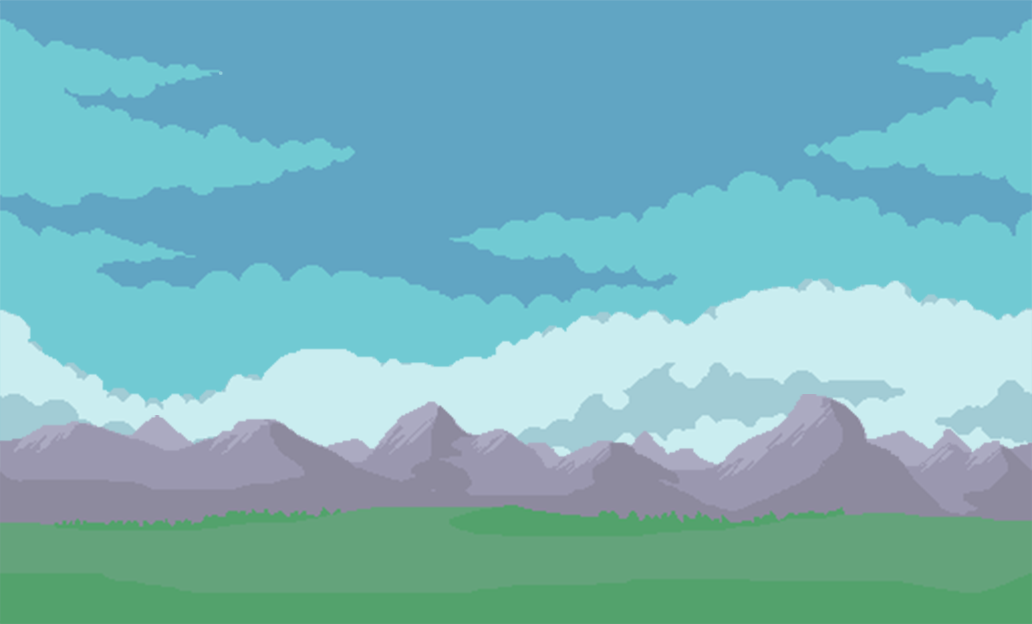
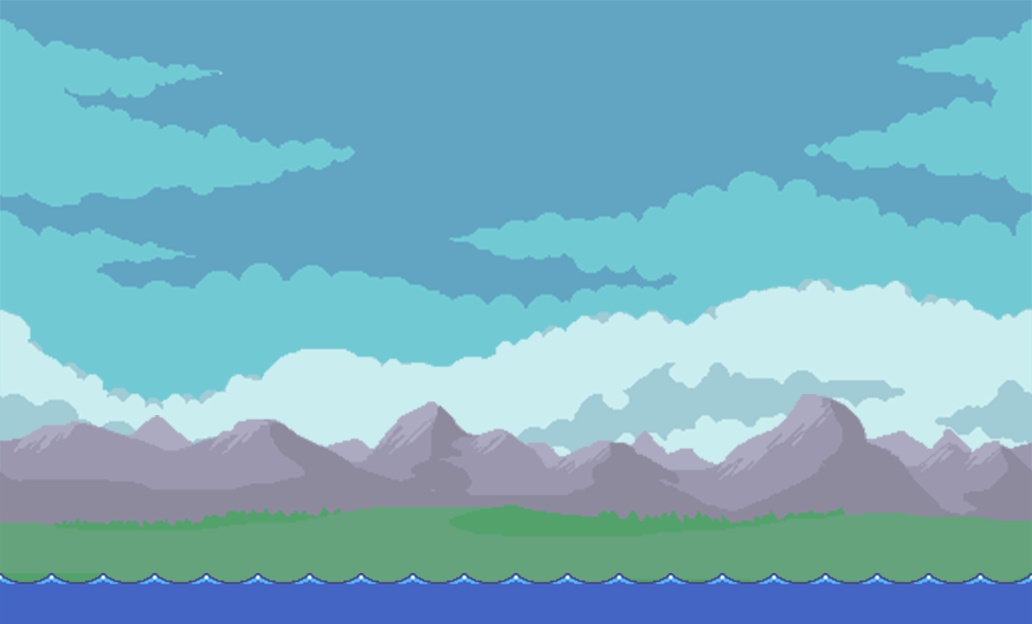
fixed water bug

Changed region(s): [[0.0, 0.9135, 1.0, 1.0]]

diff --git a/Level1.java b/Level1.java
@@ -57,17 +57,6 @@ public class Level1 extends World
         addObject(clouds2,474,185);
         Clouds clouds3 = new Clouds();
         addObject(clouds3,751,73);
-        Water water = new Water();
-        addObject(water,99,594);
-        Water water2 = new Water();
-        addObject(water2,493,602);
-        Water water3 = new Water();
-        addObject(water3,875,603);
-        water3.setLocation(875,596);
-        water.setLocation(99,600);
-        water2.setLocation(492,603);
-        water2.setLocation(487,597);
-        water3.setLocation(874,597);
         normalGrassBlock2.setLocation(179,410);
         NormalGrassBlock normalGrassBlock3 = new NormalGrassBlock();
         addObject(normalGrassBlock3,272,397);
@@ -78,18 +67,7 @@ public class Level1 extends World
         removeObject(clouds);
         removeObject(clouds2);
         removeObject(character);
-        removeObject(water);
-        removeObject(water2);
-        removeObject(water3);
         removeObject(clouds3);
-        Water water4 = new Water();
-        addObject(water4,62,599);
-        Water water5 = new Water();
-        addObject(water5,449,596);
-        Water water6 = new Water();
-        addObject(water6,831,588);
-        water6.setLocation(828,598);
-        water5.setLocation(461,600);
         NormalGrassBlock normalGrassBlock4 = new NormalGrassBlock();
         addObject(normalGrassBlock4,66,456);
         NormalGrassBlock normalGrassBlock5 = new NormalGrassBlock();
@@ -116,8 +94,6 @@ public class Level1 extends World
         Enemy enemy = new Enemy();
         addObject(enemy,207,397);
         enemy.setLocation(225,403);
-        water5.setLocation(463,599);
-        water5.setLocation(474,599);
         enemy.setLocation(230,401);
         enemy.setLocation(254,398);
         removeObject(enemy);
